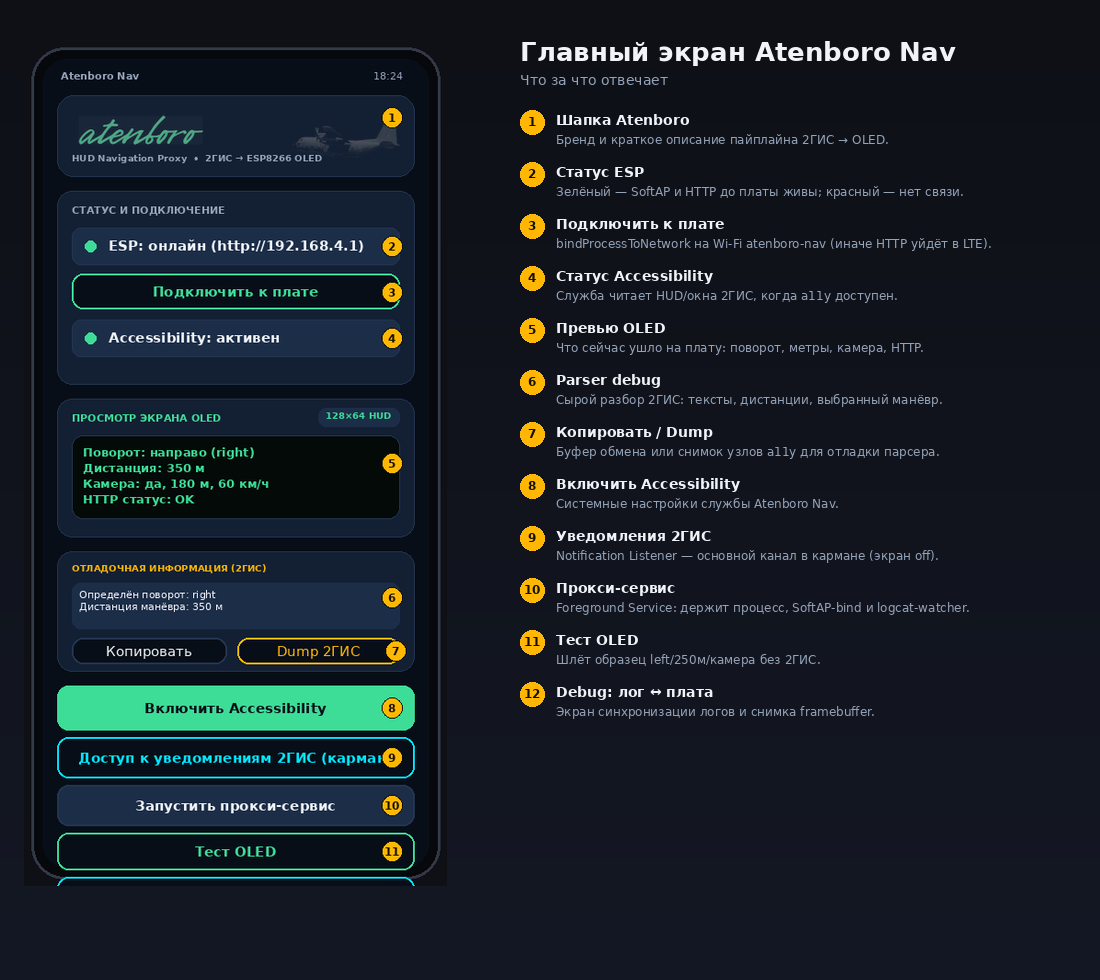
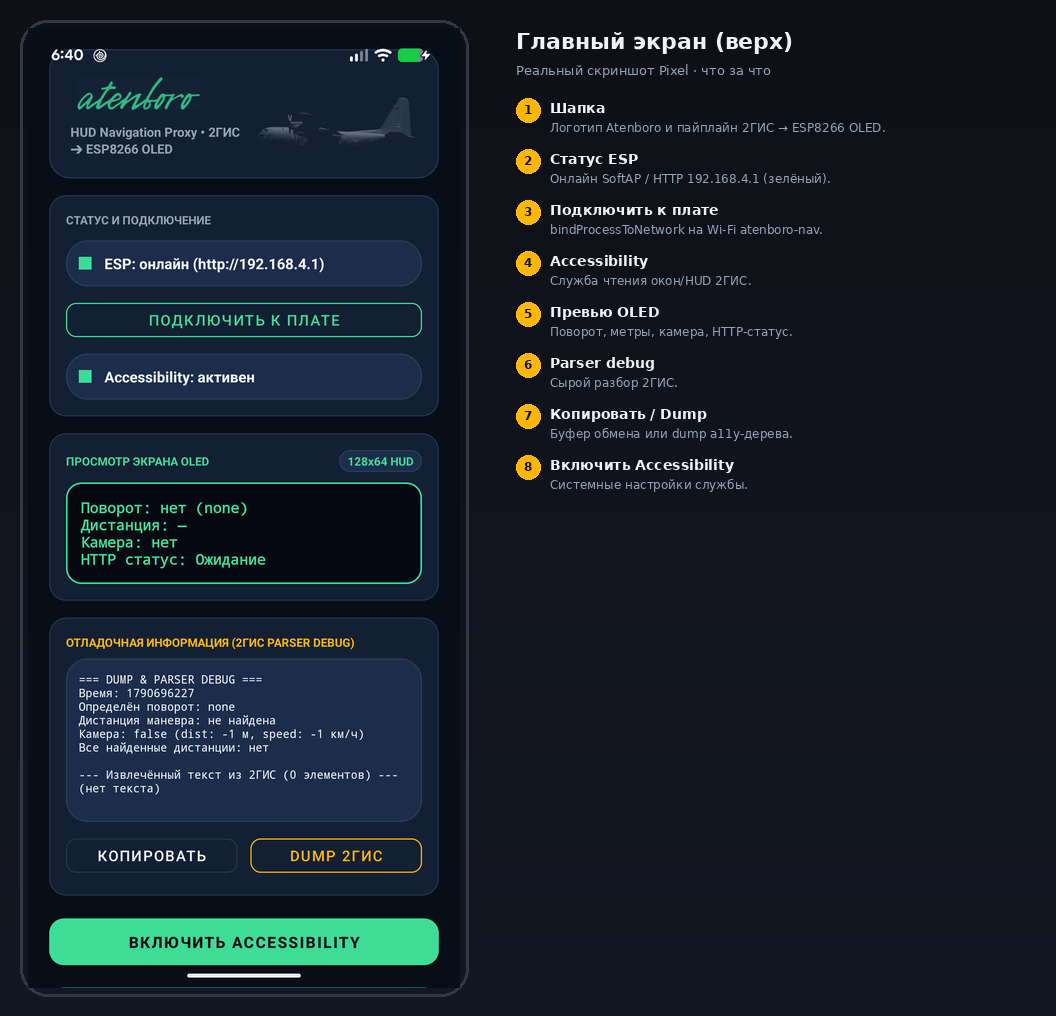
docs: replace UI mockups with real Pixel app screenshots

Changed region(s): [[0.0, 0.0, 0.4375, 0.9796], [0.4688, 0.0306, 0.875, 0.7347], [0.8438, 0.1837, 0.875, 0.2143]]

diff --git a/README.md b/README.md
@@ -29,45 +29,60 @@
 
 ## Приложение Android
 
+Реальные скриншоты с Pixel.
+
 ### Главный экран
 
 <p align="center">
-  <img src="docs/screens/app-main-annotated.png" alt="Главный экран Atenboro Nav с пояснениями" width="920" />
+  <img src="docs/screens/app-main-annotated.png" alt="Главный экран — верх" width="900" />
 </p>
 
 | # | Элемент | Зачем |
 |---|---------|--------|
-| 1 | Шапка | Бренд и схема «2ГИС → OLED» |
-| 2 | Статус ESP | Зелёный — SoftAP/`/health` ок; красный — нет связи |
-| 3 | **Подключить к плате** | `bindProcessToNetwork` на `atenboro-nav` (иначе HTTP уйдёт в LTE) |
-| 4 | Статус Accessibility | Служба читает окна/HUD 2ГИС |
-| 5 | Превью OLED | Что ушло на плату: поворот, метры, камера, HTTP |
-| 6 | Parser debug | Сырой разбор 2ГИС (тексты, дистанции, манёвр) |
-| 7 | Копировать / Dump | Буфер обмена или снимок a11y-дерева |
+| 1 | Шапка | Бренд и схема 2ГИС → OLED |
+| 2 | Статус ESP | SoftAP / HTTP до платы |
+| 3 | **Подключить к плате** | `bindProcessToNetwork` на `atenboro-nav` |
+| 4 | Accessibility | Чтение окон/HUD 2ГИС |
+| 5 | Превью OLED | Поворот, метры, камера, HTTP |
+| 6 | Parser debug | Сырой разбор 2ГИС |
+| 7 | Копировать / Dump | Буфер обмена или dump a11y |
 | 8 | **Включить Accessibility** | Системные настройки службы |
-| 9 | **Уведомления 2ГИС** | Notification Listener — основной канал **в кармане** |
-| 10 | **Прокси-сервис** | FGS: процесс, SoftAP-bind, logcat-watcher |
-| 11 | Тест OLED | Образец left/250 м/камера без 2ГИС |
-| 12 | **Debug: лог ↔ плата** | Синхрон логов и снимок framebuffer |
 
-Типичный порядок: **3 → 8 → 9 → 10 → навигация в 2ГИС**.
+<p align="center">
+  <img src="docs/screens/app-main-actions-annotated.png" alt="Главный экран — кнопки" width="900" />
+</p>
+
+| # | Элемент | Зачем |
+|---|---------|--------|
+| 4 | **Включить Accessibility** | Системные настройки a11y |
+| 5 | **Уведомления 2ГИС** | Карманный режим (экран off) |
+| 6 | **Прокси-сервис** | FGS: процесс, SoftAP-bind, logcat |
+| 7 | Тест OLED | Образец на плату без 2ГИС |
+| 8 | **Debug: лог ↔ плата** | Синхрон логов и `/screen` |
+
+Типичный порядок: **Подключить к плате → Accessibility → уведомления → прокси → навигация в 2ГИС**.
+
+<p align="center">
+  <img src="docs/screens/app-main-top.png" width="260" alt="верх" />
+  <img src="docs/screens/app-main-mid.png" width="260" alt="кнопки" />
+  <img src="docs/screens/app-main-bot.png" width="260" alt="низ" />
+</p>
 
 ### Debug ↔ ESP
 
 <p align="center">
-  <img src="docs/screens/app-debug-annotated.png" alt="Экран Debug с пояснениями" width="900" />
+  <img src="docs/screens/app-debug-annotated.png" alt="Debug экран" width="900" />
 </p>
 
 | # | Элемент | Зачем |
 |---|---------|--------|
-| 1 | Заголовок | Экран отладки телефон ↔ плата |
-| 2 | Путь лога | Локальный NDJSON `files/debug/session-….ndjson` |
-| 3 | Синхрон | Тянет `GET /debug` с ESP и мержит в лог |
-| 4 | Очистить плату | `DELETE /debug` на ESP |
-| 5 | Снимок OLED | `GET /screen` + meta-заголовки |
-| 6 | Превью | Декод буфера SSD1306 |
-| 7 | Обновить лог | Перечитать локальные события |
-| 8 | Лента | inject / notif / locked-screen / board |
+| 1 | Заголовок / путь | NDJSON-сессия на телефоне |
+| 2 | Синхрон | `GET /debug` с платы |
+| 3 | Очистить плату | `DELETE /debug` |
+| 4 | Снимок OLED | `GET /screen` + meta |
+| 5 | Превью | Декод SSD1306 |
+| 6 | Обновить лог | Локальные события |
+| 7 | Лента | inject / notif / screen / board |
 
 ## Быстрый старт
 
@@ -83,10 +98,10 @@ SoftAP: `atenboro-nav` / `atenboro1` → `http://192.168.4.1`
 **Android**
 
 1. Установить APK, Wi‑Fi → SoftAP платы.
-2. В приложении: «Подключить к плате» → Accessibility → уведомления → прокси.
+2. «Подключить к плате» → Accessibility → уведомления → прокси.
 3. Навигация в 2ГИС (экран можно блокировать).
 
-Подробный чеклист и тест с заблокированным экраном: [`docs/TESTING.md`](docs/TESTING.md).
+Чеклист и locked-screen тест: [`docs/TESTING.md`](docs/TESTING.md).
 
 ## API платы
 
